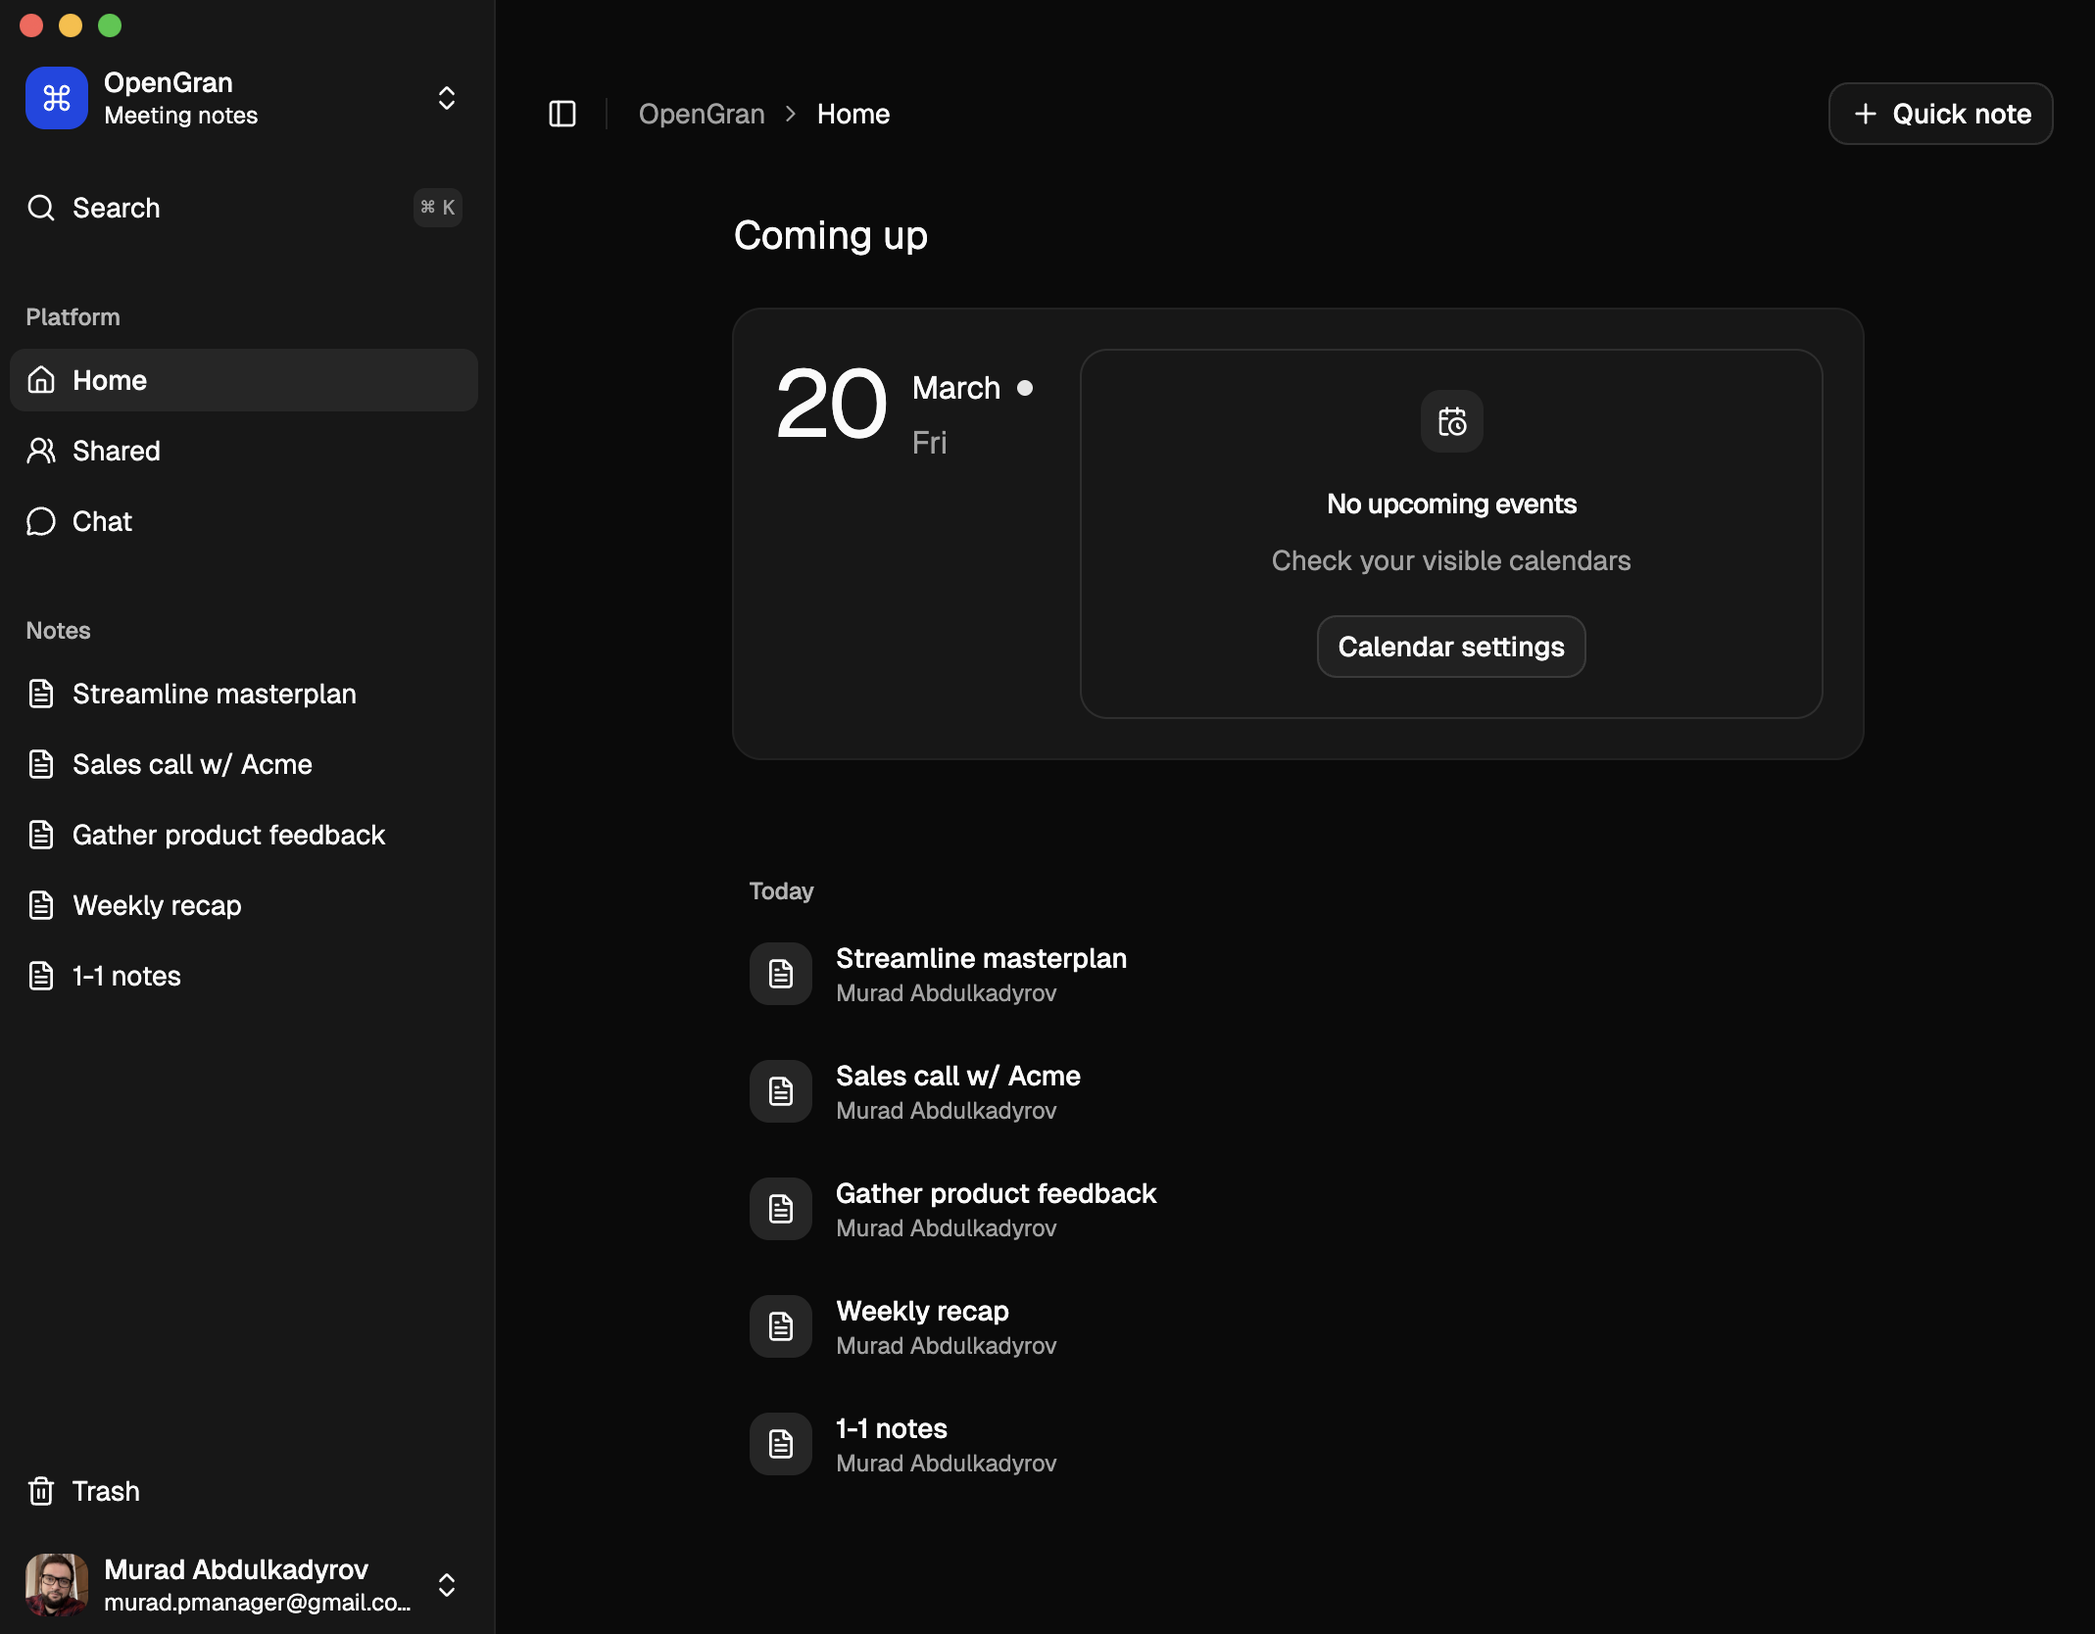
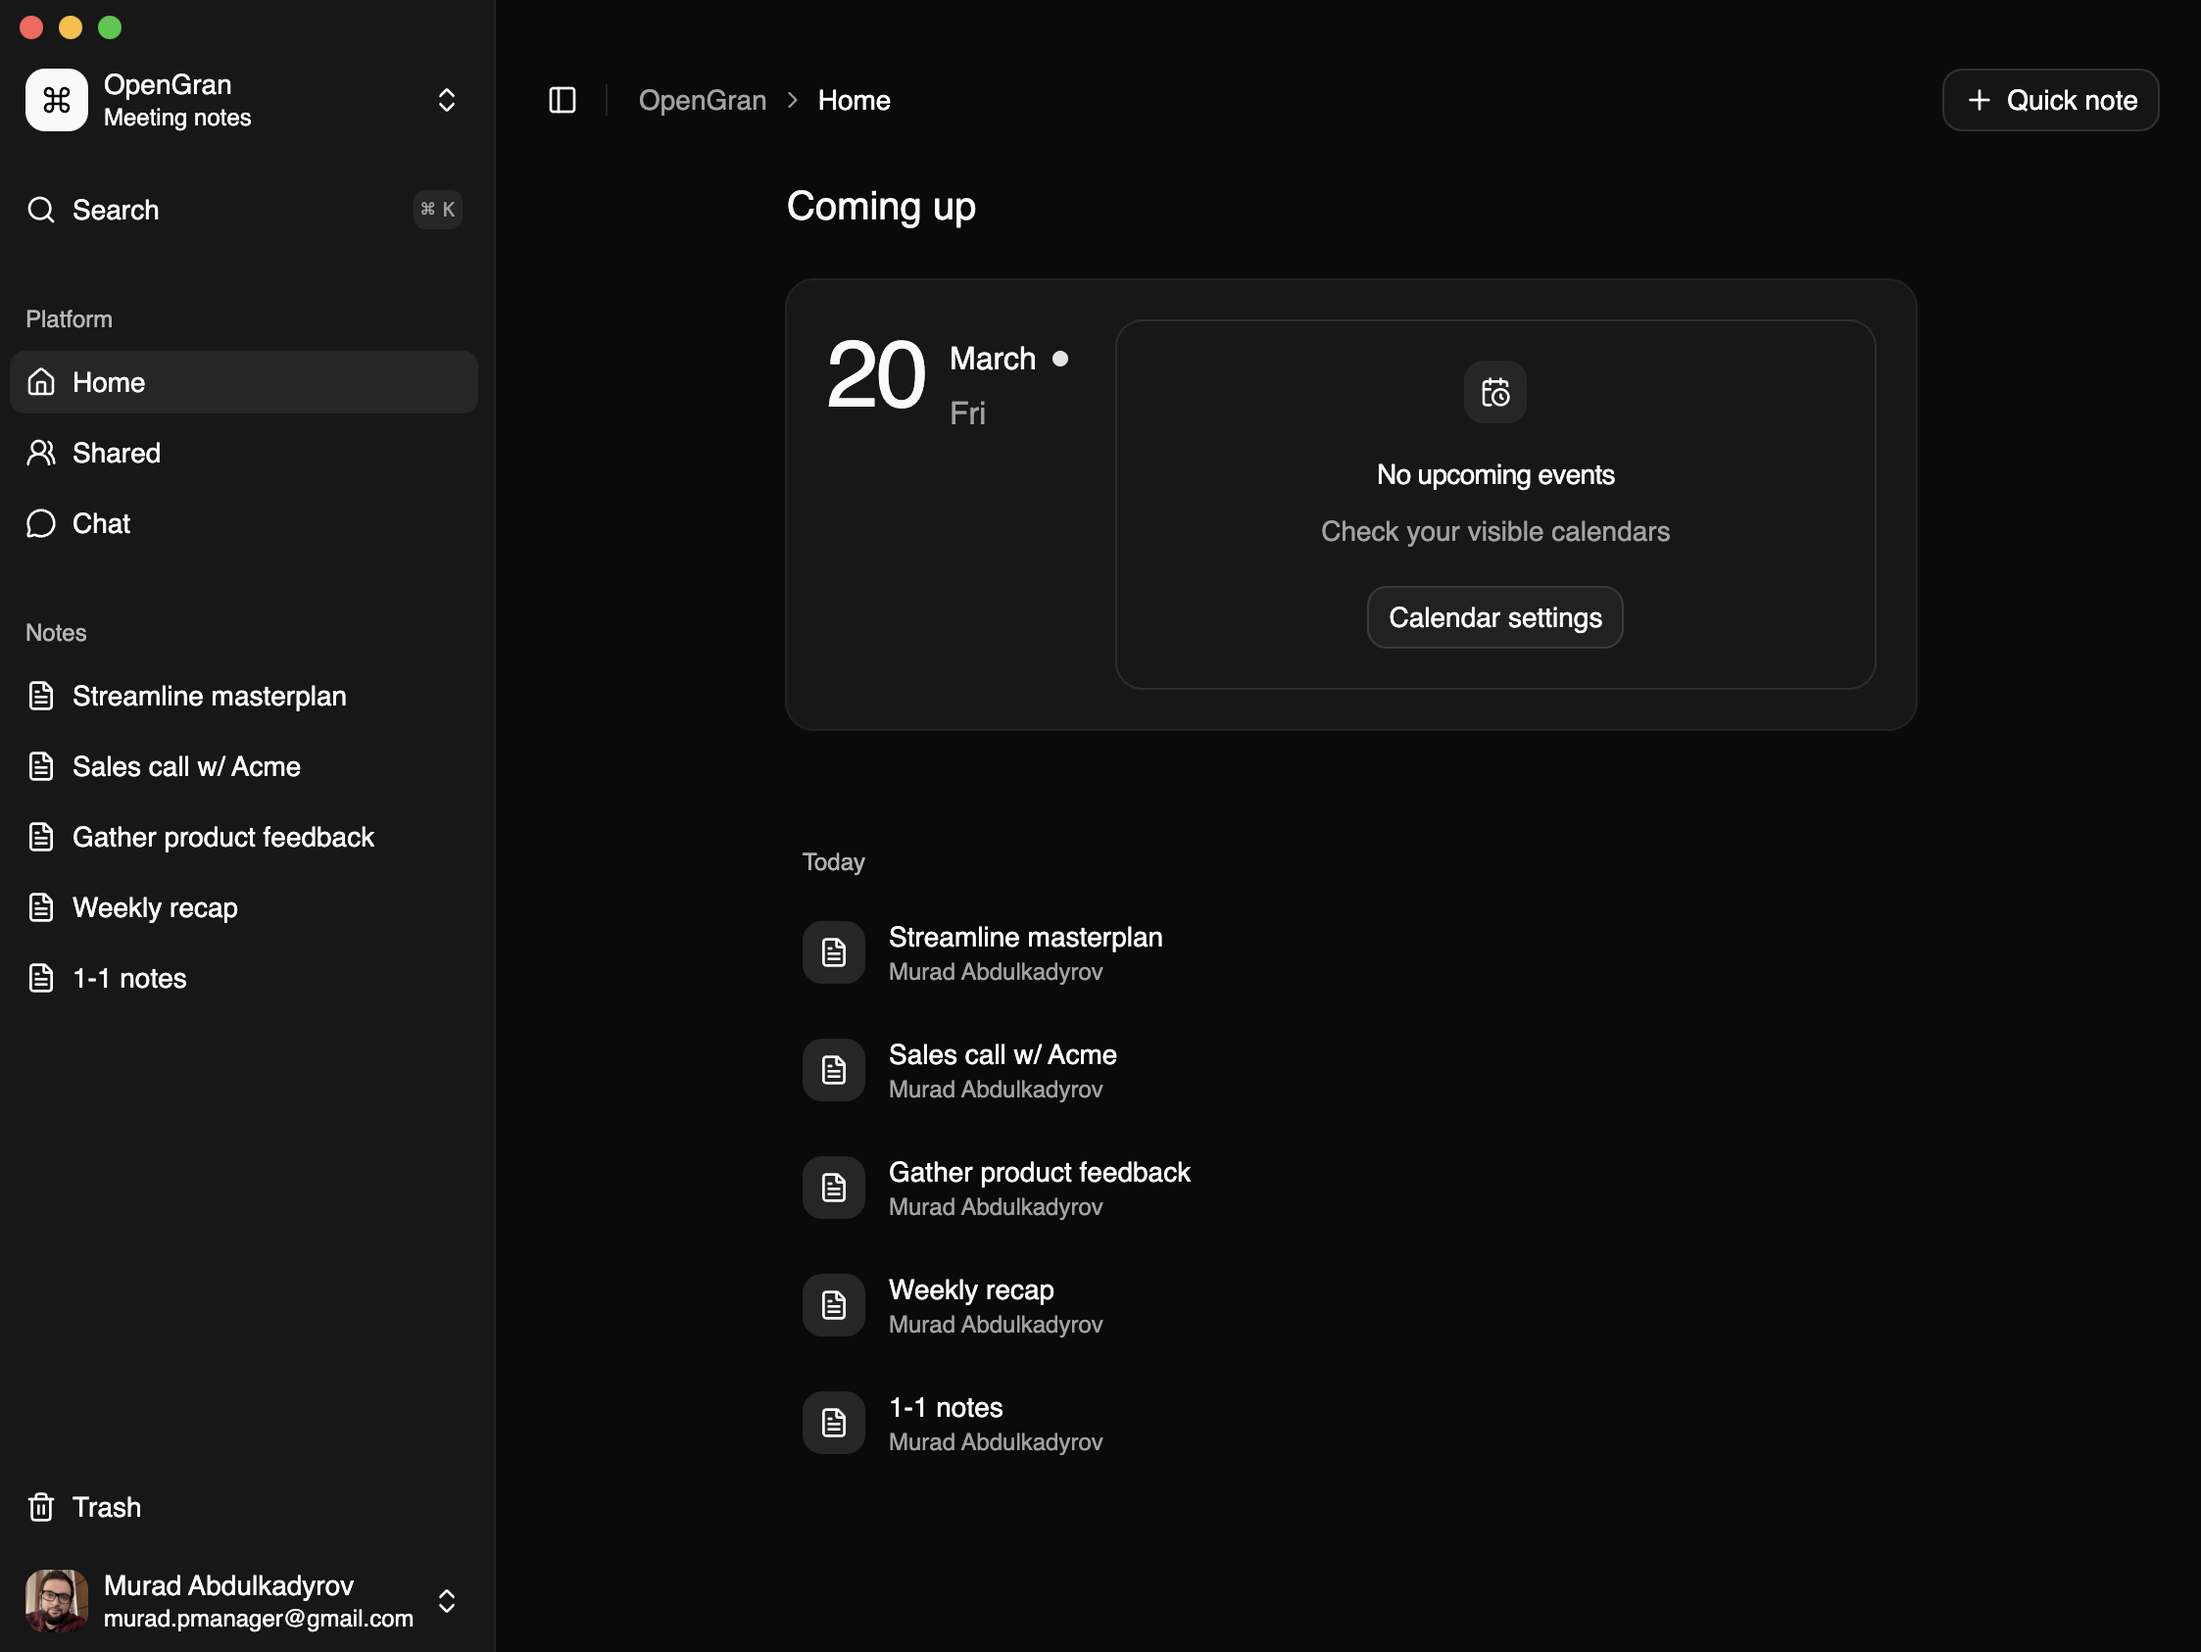
fix: align desktop header

diff --git a/apps/web/src/App.tsx b/apps/web/src/App.tsx
@@ -499,7 +499,7 @@ function AppShell({
 					data-app-region={isDesktopMac ? "drag" : undefined}
 					className={cn(
 						"sticky top-0 z-20 flex h-16 shrink-0 items-center justify-between bg-background/95 px-4 backdrop-blur transition-[width,height] ease-linear group-has-data-[collapsible=icon]/sidebar-wrapper:h-12 md:px-6",
-						isDesktopMac && "h-24 pt-8",
+						isDesktopMac && "h-20 pt-8",
 					)}
 				>
 					<div
